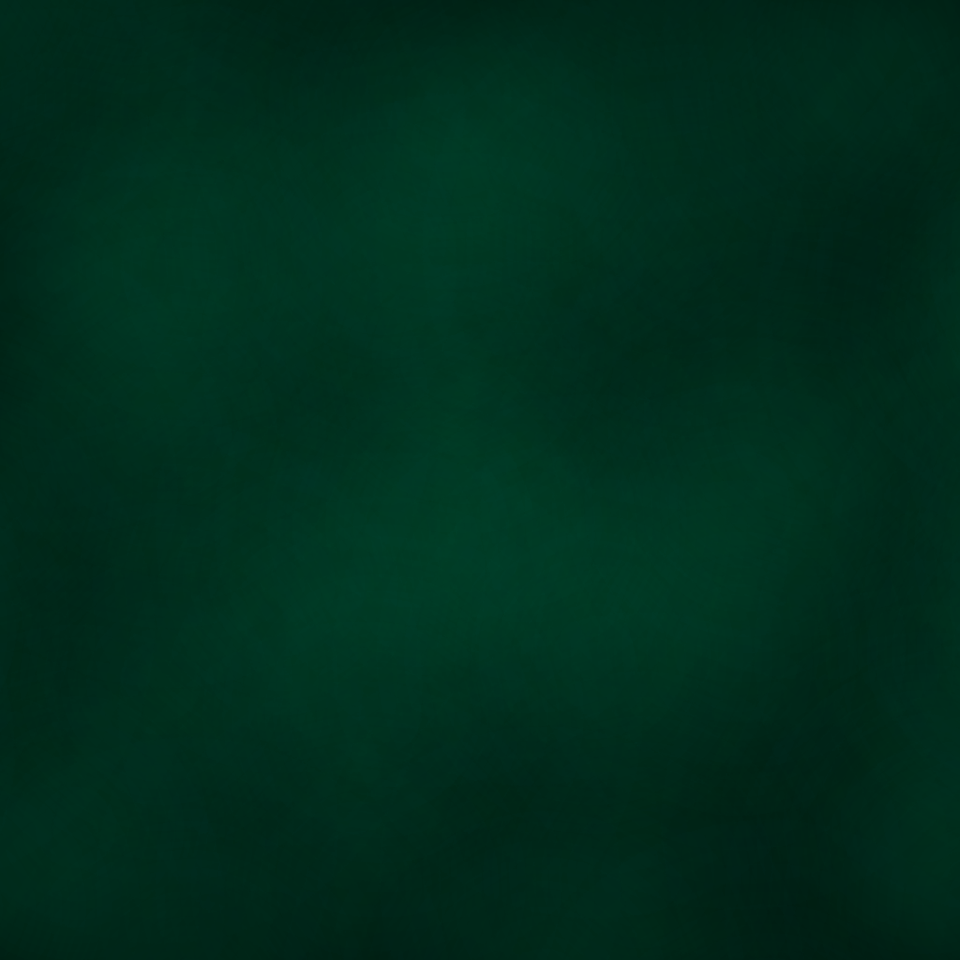
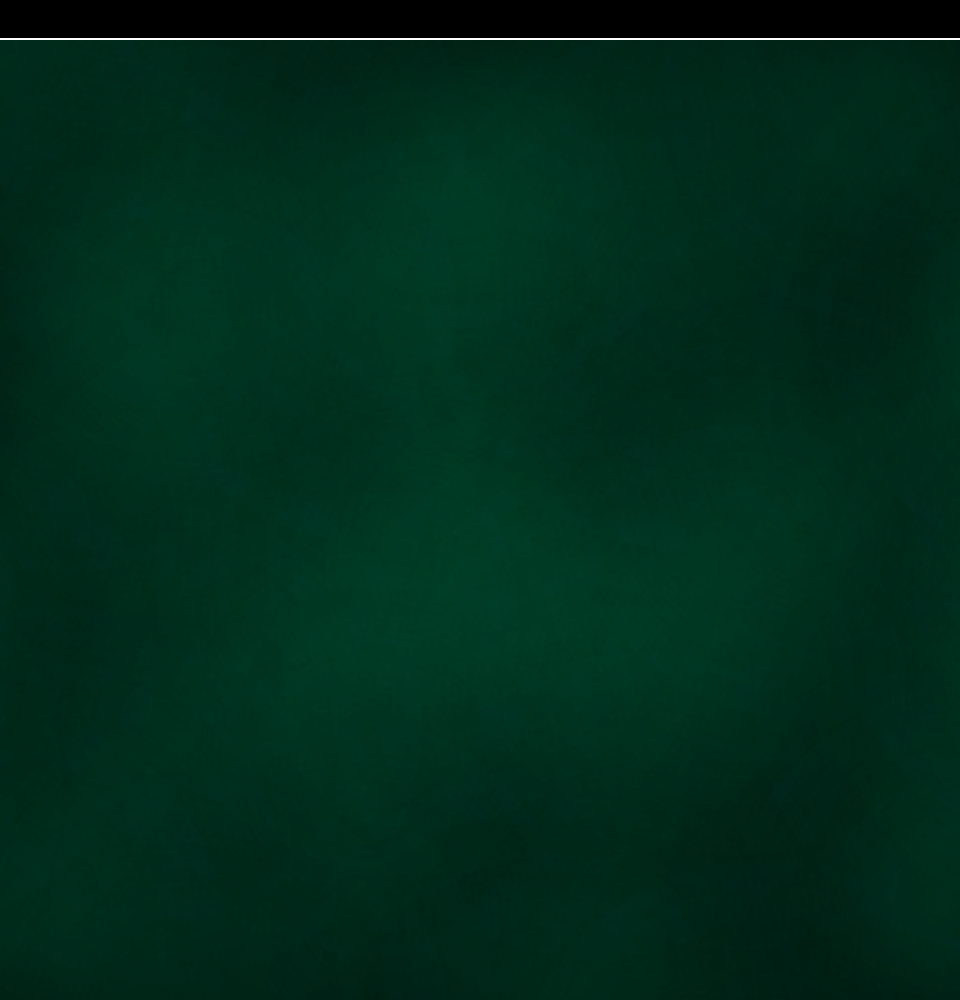
Test avec les polices

Changed region(s): [[0.0, 0.0, 1.0, 0.0625]]

diff --git a/core/src/com/myGDX/snake/GameScreen.java b/core/src/com/myGDX/snake/GameScreen.java
@@ -14,6 +14,9 @@ import com.badlogic.gdx.math.MathUtils;
 import com.badlogic.gdx.utils.GdxBuild;
 import com.badlogic.gdx.utils.Timer;
 
+//import com.badlogic.gdx.graphics.g2d.freetype.FreeTypeFontGenerator;
+import com.badlogic.gdx.graphics.g2d.freetype.*;
+
 import java.util.ArrayList;
 import java.awt.Point;
 
@@ -272,6 +275,13 @@ public class GameScreen extends ScreenAdapter {
 						   },3);
 		}
         batch.draw(bgSupp, 0, 0);
+        FreeTypeFontGenerator generator = new FreeTypeFontGenerator(Gdx.files.internal("AldotheApache.ttf"));
+		FreeTypeFontParameter parameter = new FreeTypeFontParameter();
+		parameter.size = 12;
+		BitmapFont font = generator.generateFont(parameter); // font size 12 pixels
+		generator.dispose(); // don't forget to dispose to avoid memory leaks!
+        font.draw(batch, "score J1: 42", 25, 990);
+        new BitmapFont().draw(batch, "score J2: 42", 800, 990);
 		batch.end();
 	}
 }

diff --git a/desktop/src/com/mygdx/game/desktop/DesktopLauncher.java b/desktop/src/com/mygdx/game/desktop/DesktopLauncher.java
@@ -11,7 +11,7 @@ public class DesktopLauncher {
 		LwjglApplicationConfiguration config = new LwjglApplicationConfiguration();
 		config.resizable = false;
 		config.width = 960;
-		config.height = 960;
+		config.height = 1000;
 		new LwjglApplication(new SnakeGame(), config);
 	}
 }
